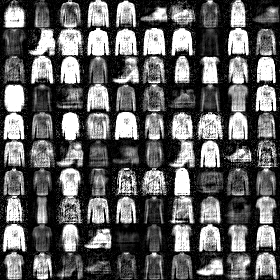
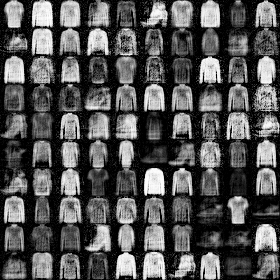
fix not using tanh bug. and regenerate images.

diff --git a/visualizer.py b/visualizer.py
@@ -46,7 +46,7 @@ class LayerMLP(chainer.Chain):
         self.x = F.relu(self.l0(x))
         self.x = F.relu(self.l1(self.x))
         self.x = F.relu(self.l2(self.x))
-        self.x = self.l3(self.x)
+        self.x = F.tanh(self.l3(self.x))
         return self.x
 
 
@@ -87,7 +87,7 @@ class LayerMLPClassifier(chainer.Chain):
         return self.x
 
 
-def make_label_one_image(label_num: int, rows: int, cols: int, gen: Generator, dst: str):
+def make_label_one_image(label_num: int, rows: int, cols: int, gen, dst: str):
     n_images = rows * cols
     labels = np.ones(n_images, dtype=np.int8)
     z = Variable(gen.make_input_z_with_label(n_images, labels))
